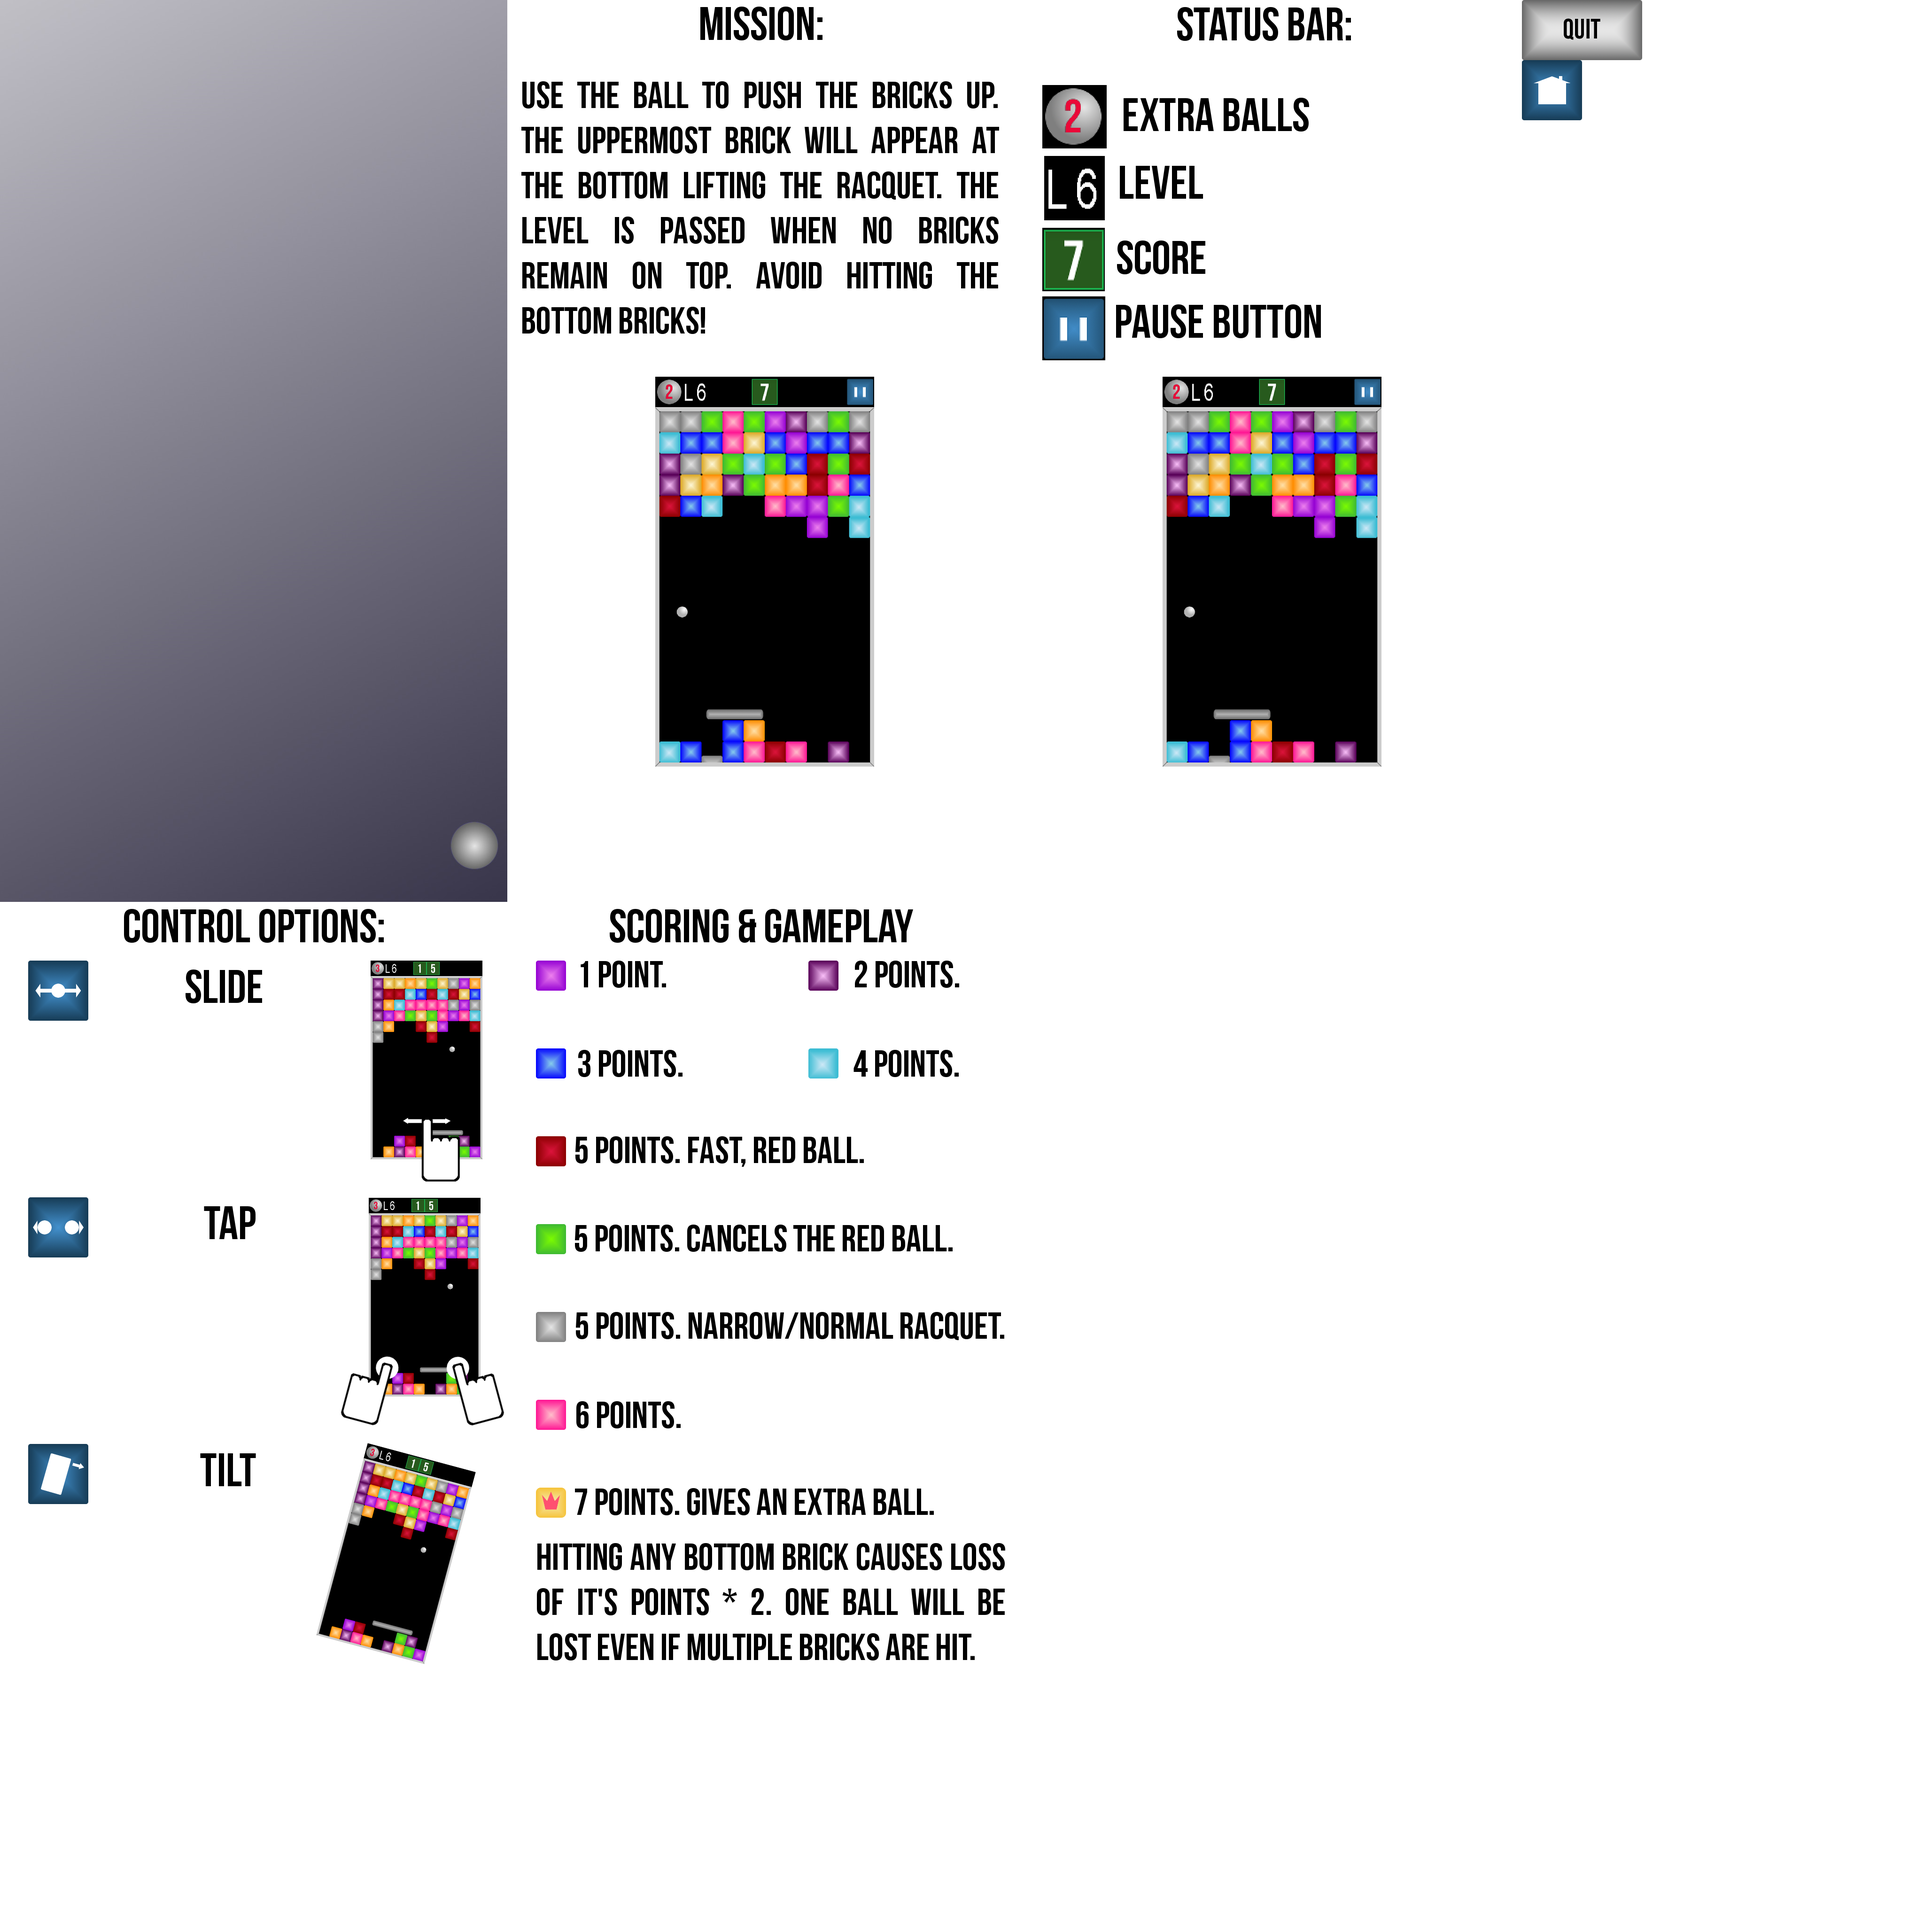
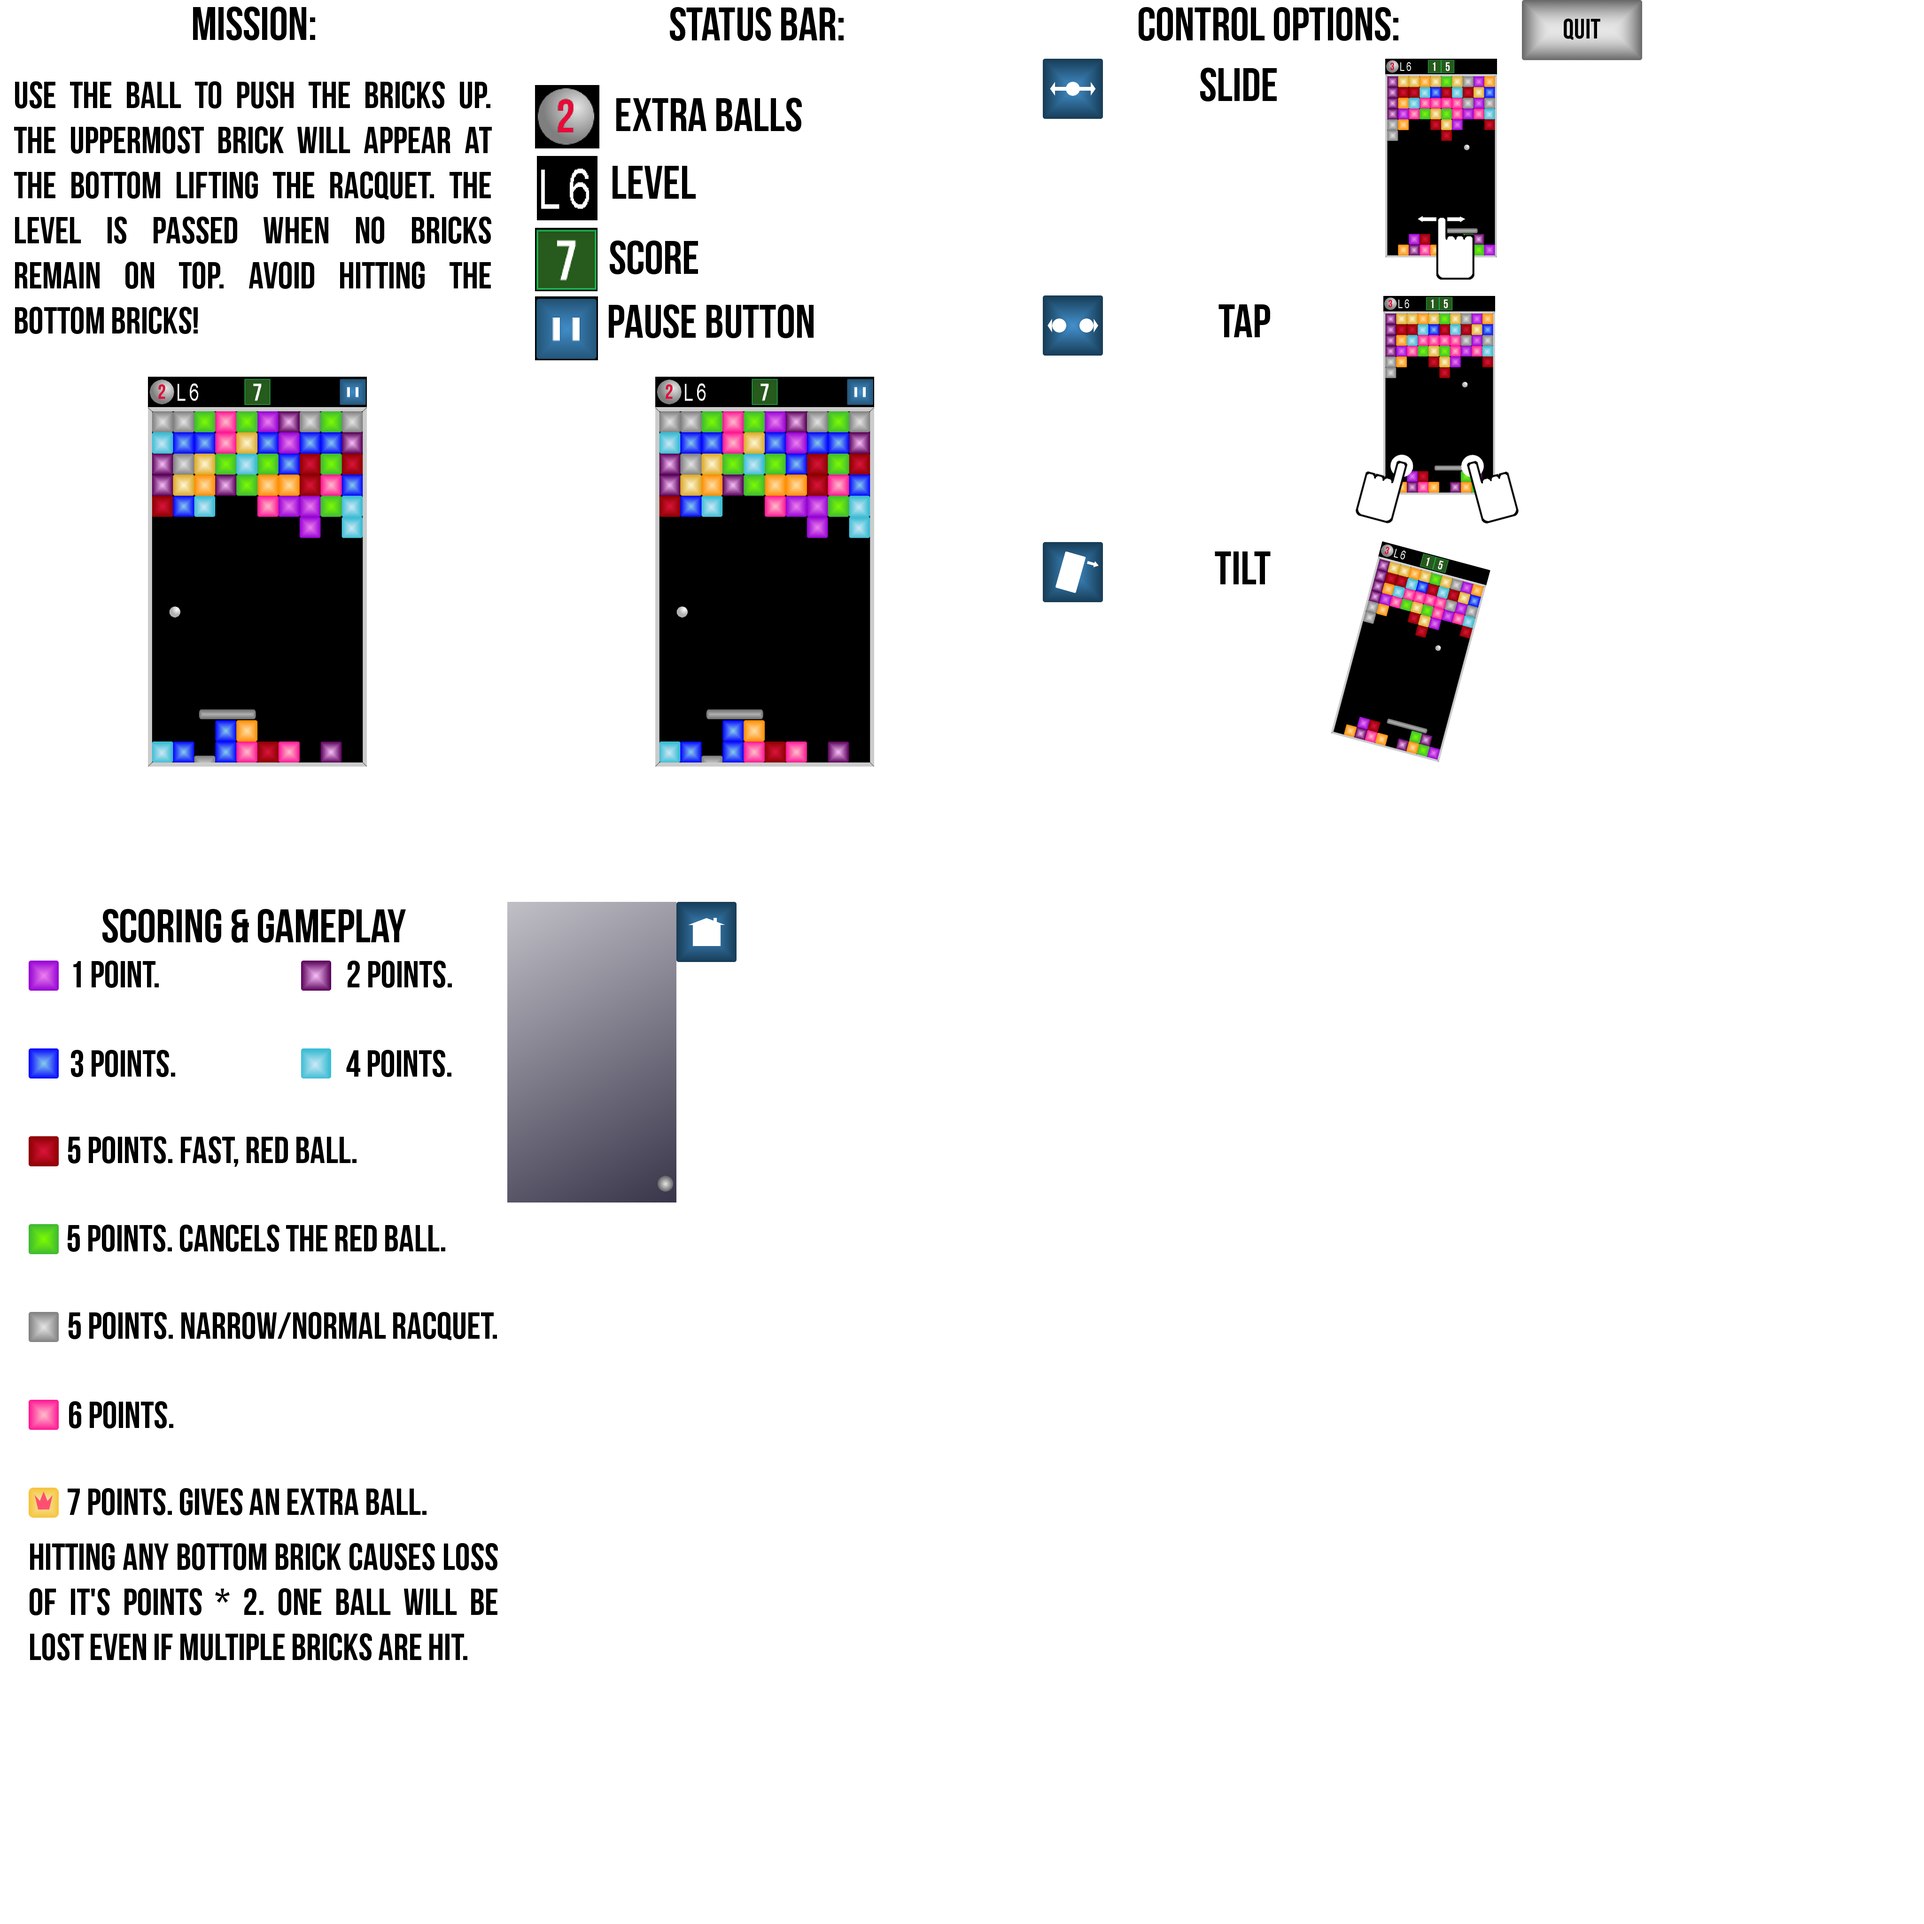
use a slightly lighter image for HelpScreen - background

Changed region(s): [[0.0, 0.0, 0.8438, 0.875]]

diff --git a/src/com/mmango/arkshift/AssetsHelp.java b/src/com/mmango/arkshift/AssetsHelp.java
@@ -25,13 +25,15 @@ public class AssetsHelp {
 	public static void load(GLGame game) {
 
 		atlasHelpScreen = new Texture(game, "atlas_bg_hs.png");
-		backgroundUIRegion = new TextureRegion(atlasHelpScreen, 0, 0, 1080, 1920);
-		helpScreen1Region = new TextureRegion(atlasHelpScreen, 1080, 0, 1080, 1920);
-		helpScreen2Region = new TextureRegion(atlasHelpScreen, 2160, 0, 1080, 1920);
-		helpScreen3Region = new TextureRegion(atlasHelpScreen, 0, 1920, 1080, 1920);
-		helpScreen4Region = new TextureRegion(atlasHelpScreen, 1080, 1920, 1080, 1920);
-		mainMenuButtonHome = new TextureRegion(atlasHelpScreen, 3240, 128, 128, 128);
+		backgroundUIRegion = new TextureRegion(atlasHelpScreen, 1080, 1920, 360, 640);
+		helpScreen1Region = new TextureRegion(atlasHelpScreen, 0, 0, 1080, 1920);
+		helpScreen2Region = new TextureRegion(atlasHelpScreen, 1080, 0, 1080, 1920);
+		helpScreen3Region = new TextureRegion(atlasHelpScreen, 2160, 0, 1080, 1920);
+		helpScreen4Region = new TextureRegion(atlasHelpScreen, 0, 1920, 1080, 1920);
+		mainMenuButtonHome = new TextureRegion(atlasHelpScreen, 1440, 1920, 128, 128);
 		mainMenuTextQuit = new TextureRegion(atlasHelpScreen, 3240, 0, 256, 128);
+
+
 
 		clickSound = game.getAudio().newSound("click.ogg");
 	}
